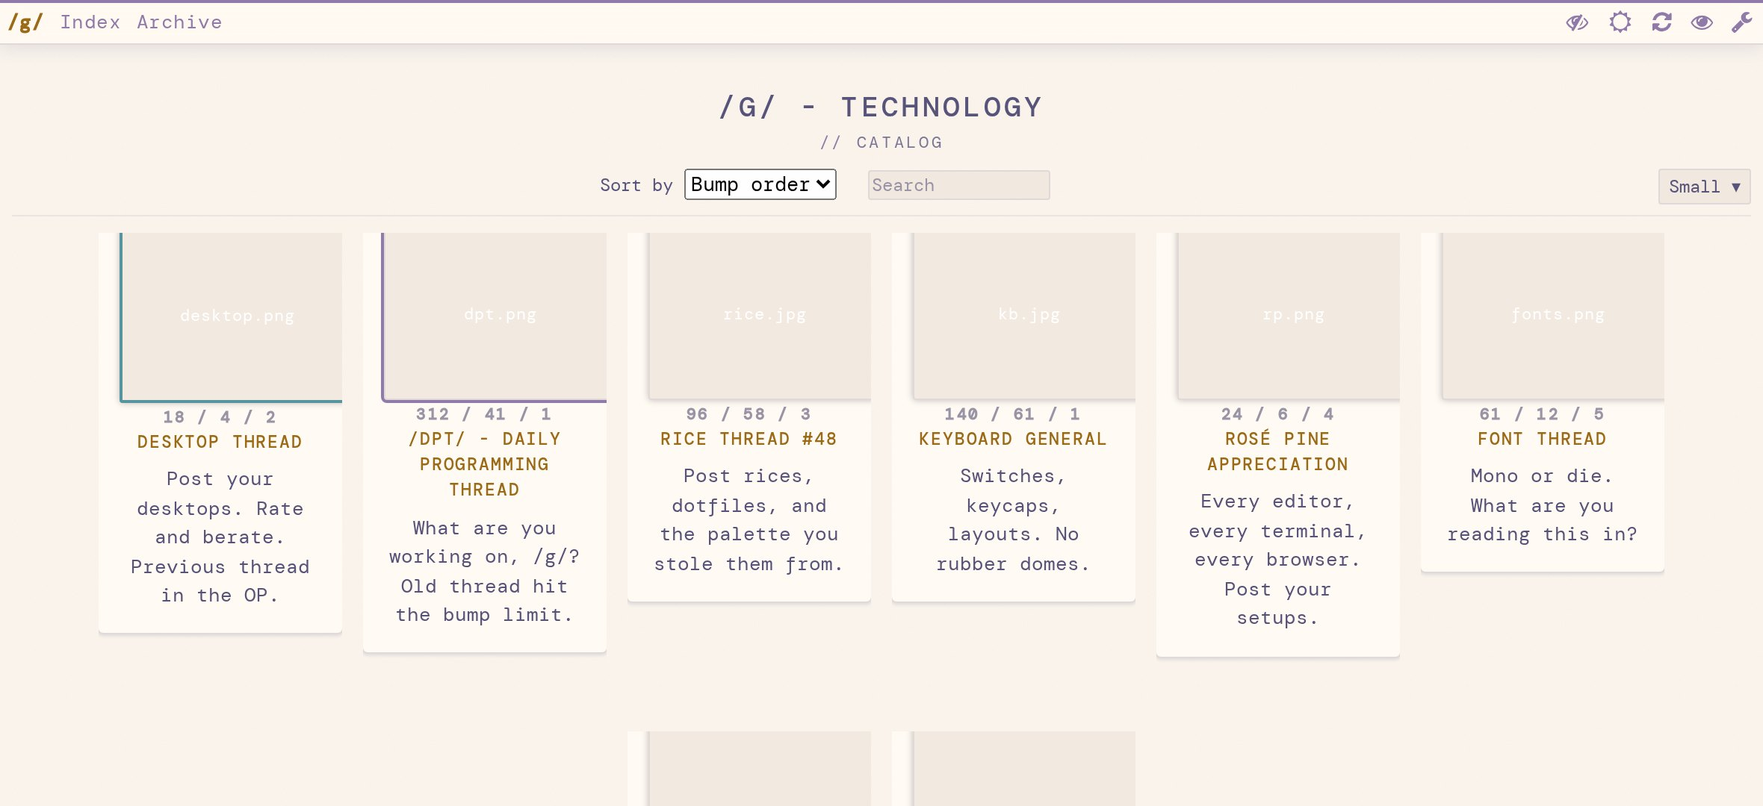
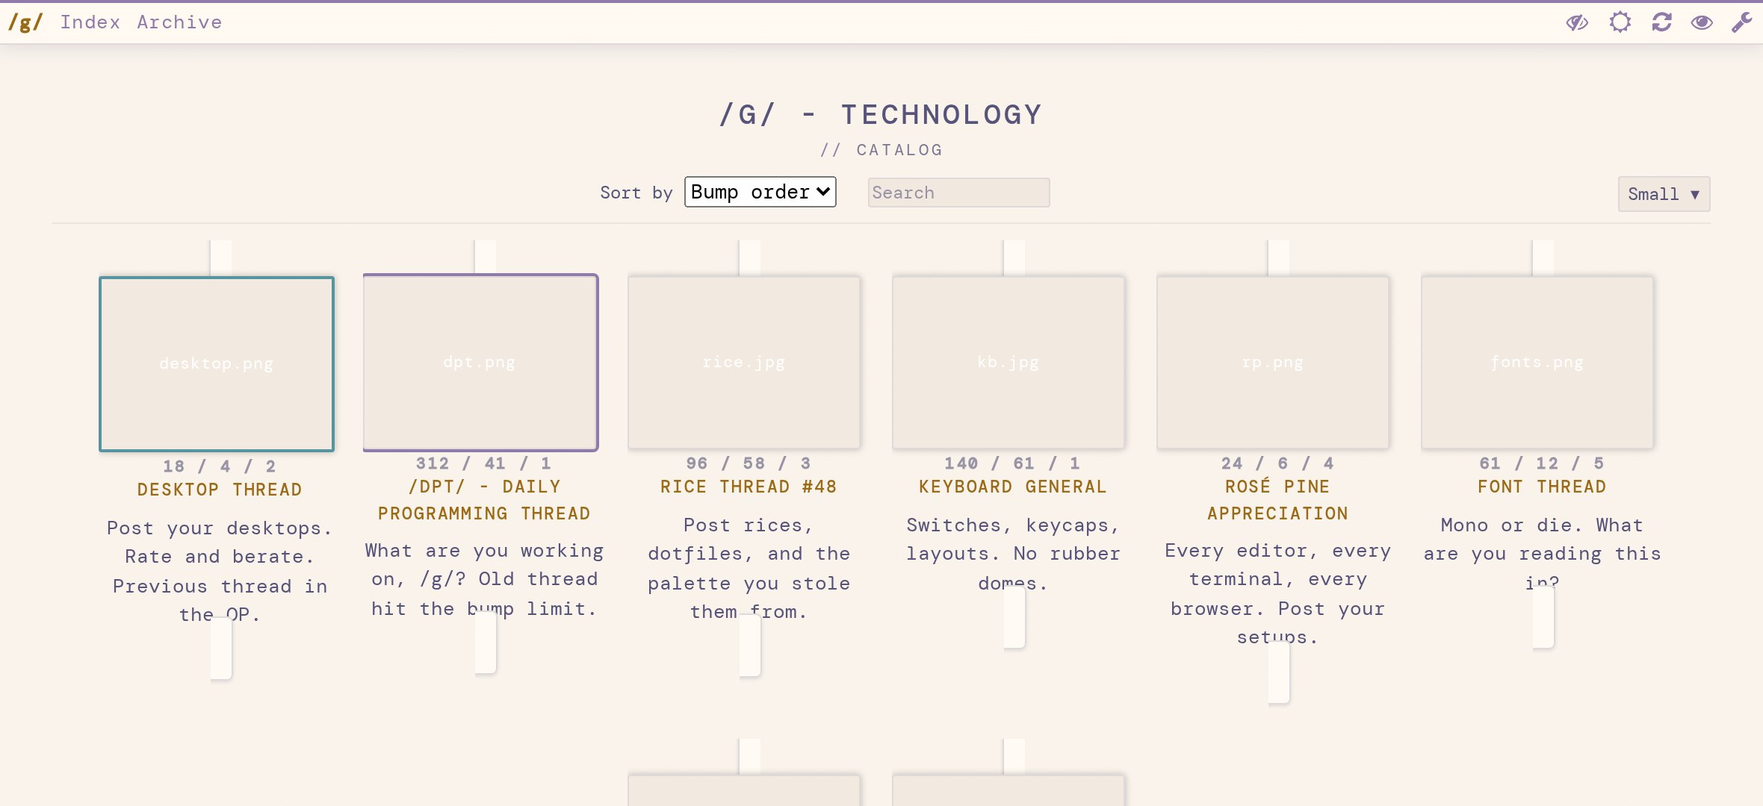
Fix OP card overflow against 4chan's stylesheet and add a page width option
The opening post was drawn by the site as an inline box (div.op and
div.opContainer are display: inline in 4chan's CSS), so the themed card wrapped
only the text while the floated thumbnail hung out below it and pushed the
first reply sideways. The card is now a flow-root box inside a block container,
which contains the float without clipping, in both the thread and the index.

Names, tripcodes, quotelinks and the highlighted-post state were also losing to
the site's rules: its name selectors carry four classes and four elements, and
its quotelink and highlight colours are marked !important. The theme's
selectors now outrank them where specificity is enough and use !important only
where the site does.

A new Page width option (full, wide, narrow) centres the page in a column with
margins either side; wide is the default. The mock board used for the
screenshots now mirrors the site's real layout rules so it reproduces these
bugs, and the docs screenshots and published build are regenerated.

Claude-Session: https://claude.ai/code/session_01XExP12SdTJoGpniFGqLcDd

diff --git a/docs/rose-chan.user.js b/docs/rose-chan.user.js
@@ -491,6 +491,7 @@ Config = (function() {
       'Theme Font': 'dm-mono',
       'Theme Accent': 'iris',
       'Theme Density': 'normal',
+      'Theme Width': 'wide',
       'Square Corners': false,
       'Card OP': true,
       'Blur Effects': true,
@@ -4833,6 +4834,23 @@ a:only-of-type > .remove {\n\
   --rp-pad:         16px 20px;\n\
   --rp-post-gap:    14px;\n\
 }\n\
+/* Page width. The site runs posts edge to edge; the column options centre the\n\
+   page and leave margins either side. Only the horizontal box changes, so the\n\
+   fixed header's body offset (padding-top from 4chan X) is untouched. */\n\
+:root.rp-theme.rp-width-wide body,\n\
+:root.rp-theme.rp-width-narrow body {\n\
+  box-sizing: border-box;\n\
+  margin-left: auto;\n\
+  margin-right: auto;\n\
+  padding-left: clamp(12px, 3vw, 48px);\n\
+  padding-right: clamp(12px, 3vw, 48px);\n\
+}\n\
+:root.rp-theme.rp-width-wide body {\n\
+  max-width: 1440px;\n\
+}\n\
+:root.rp-theme.rp-width-narrow body {\n\
+  max-width: 1080px;\n\
+}\n\
 /* ============================ Page ============================ */\n\
 :root.rp-theme,\n\
 :root.rp-theme body {\n\
@@ -4960,6 +4978,16 @@ a:only-of-type > .remove {\n\
 :root.rp-theme .postContainer {\n\
   margin-bottom: var(--rp-post-gap);\n\
 }\n\
+/* The site draws the opening post as an inline box (div.op and div.opContainer\n\
+   are display: inline), which cannot hold a floated thumbnail: the card would\n\
+   wrap only the text and the image would hang out below it, pushing the first\n\
+   reply sideways. A flow-root box contains the float without clipping. */\n\
+:root.rp-theme .thread > .opContainer {\n\
+  display: block;\n\
+}\n\
+:root.rp-theme .thread > .opContainer > .post.op {\n\
+  display: flow-root;\n\
+}\n\
 :root.rp-theme .post {\n\
   background: var(--rp-surface);\n\
   border: 1px solid var(--rp-hl-med);\n\
@@ -4981,17 +5009,20 @@ a:only-of-type > .remove {\n\
   box-shadow: 0 1px 2px var(--rp-shadow);\n\
   padding: var(--rp-pad);\n\
 }\n\
+/* The site marks these with !important, so this has to as well. */\n\
 :root.rp-theme .post.reply:target,\n\
 :root.rp-theme .post.reply.highlight {\n\
-  background: var(--rp-overlay);\n\
-  border-color: var(--rp-accent);\n\
+  background: var(--rp-overlay) !important;\n\
+  border: 1px solid var(--rp-accent) !important;\n\
   box-shadow: 0 0 0 1px var(--rp-accent);\n\
 }\n\
 /* Post metadata */\n\
 :root.rp-theme .postInfo {\n\
   color: var(--rp-muted);\n\
 }\n\
-:root.rp-theme .postInfo .name {\n\
+/* The site styles names as div.post div.postInfo span.nameBlock span.name;\n\
+   these selectors carry one more class so they win without !important. */\n\
+:root.rp-theme .post .postInfo .nameBlock .name {\n\
   color: var(--rp-foam);\n\
   font-weight: 600;\n\
 }\n\
@@ -4999,7 +5030,7 @@ a:only-of-type > .remove {\n\
   color: var(--rp-heading);\n\
   font-weight: 700;\n\
 }\n\
-:root.rp-theme .postInfo .postertrip {\n\
+:root.rp-theme .post .postInfo .nameBlock .postertrip {\n\
   color: var(--rp-iris);\n\
 }\n\
 :root.rp-theme .postInfo .posteruid,\n\
@@ -5008,7 +5039,7 @@ a:only-of-type > .remove {\n\
   color: var(--rp-muted);\n\
 }\n\
 :root.rp-theme .postInfo .postNum a:hover {\n\
-  color: var(--rp-accent);\n\
+  color: var(--rp-accent) !important;\n\
 }\n\
 :root.rp-theme .postInfo .capcode,\n\
 :root.rp-theme .capcodeAdmin .name,\n\
@@ -5030,14 +5061,16 @@ a:only-of-type > .remove {\n\
 :root.rp-theme blockquote .quote {\n\
   color: var(--rp-quote);\n\
 }\n\
+/* The site colours quotelinks with !important, hence the same here. */\n\
 :root.rp-theme .quotelink,\n\
 :root.rp-theme .backlink {\n\
-  color: var(--rp-accent);\n\
+  color: var(--rp-accent) !important;\n\
+  text-decoration: none;\n\
   border-bottom: 1px solid transparent;\n\
 }\n\
 :root.rp-theme .quotelink:hover,\n\
 :root.rp-theme .backlink:hover {\n\
-  color: var(--rp-love);\n\
+  color: var(--rp-love) !important;\n\
   border-bottom-color: currentColor;\n\
 }\n\
 :root.rp-theme .deadlink,\n\
@@ -5730,7 +5763,7 @@ a:only-of-type > .remove {\n\
   letter-spacing: .08em;\n\
   text-transform: uppercase;\n\
 }\n\
-:root.rp-theme.rp-dossier .postInfo .name {\n\
+:root.rp-theme.rp-dossier .post .postInfo .nameBlock .name {\n\
   font-weight: 500;\n\
 }\n\
 :root.rp-theme.rp-dossier .postInfo .dateTime {\n\
@@ -15545,7 +15578,7 @@ Settings = (function() {
     },
     theme: function(section) {
       var button, fill, input, inputs, items, j, k, len, len1, name, presets, ref, updateDisabled;
-      $.extend(section, {innerHTML: "<fieldset><legend>Presets</legend><p class=\"rp-preview-note description\">One click sets the variant, look and font together. Everything below stays adjustable afterwards.</p><div class=\"rp-presets\"><button type=\"button\" data-preset=\"dossier-dark\">Dossier &middot; Dark</button><button type=\"button\" data-preset=\"dossier-dawn\">Dossier &middot; Dawn</button><button type=\"button\" data-preset=\"classic-dark\">Classic &middot; Dark</button><button type=\"button\" data-preset=\"classic-dawn\">Classic &middot; Dawn</button><button type=\"button\" data-preset=\"off\">Off</button></div><div class=\"rp-preview\"><div class=\"replyContainer quotesYou\"><div class=\"post reply\"><div class=\"postInfo\"><span class=\"nameBlock\"><span class=\"name\">Anonymous</span></span> <span class=\"dateTime\">09/01/26(Tue)18:40:12</span> <span class=\"postNum\">No.1000007</span></div><blockquote class=\"postMessage\">This is a live preview of the current look.<br><span class=\"quote\">&gt;greentext keeps its colour</span><br>A <span class=\"quotelink\">&gt;&gt;1000001</span> quotelink, and a <s>redacted spoiler</s> to hover over.</blockquote></div></div></div></fieldset><fieldset><legend>Theme</legend><div><label>Theme:<select name=\"Theme\"><option value=\"none\">None (use the site&#039;s own theme)</option><option value=\"rose-pine-dawn\">Ros&eacute; Pine Dawn (light)</option><option value=\"rose-pine\">Ros&eacute; Pine (dark)</option></select></label><span class=\"description\">: Replaces the board&#039;s styling as well as 4chan X&#039;s own interface.</span></div><div><label><input type=\"checkbox\" name=\"Auto Theme\"> Follow system light/dark setting</label><span class=\"description\">: Picks Dawn or Dark automatically from your OS preference, overriding the choice above.</span></div><div><label>Look:<select name=\"Theme Style\"><option value=\"dossier\">Dossier Declassified</option><option value=\"classic\">Classic cards</option></select></label><span class=\"description\">: Dossier turns each post into a numbered entry in a case file, with stamps, brackets and redaction bars. Classic is the plain card layout.</span></div><div><label>Font:<select name=\"Theme Font\"><option value=\"dm-mono\">DM Mono (bundled)</option><option value=\"system\">System UI font</option><option value=\"board\">Board default</option></select></label><span class=\"description\">: DM Mono ships inside the script, so nothing is fetched from a font service.</span></div><div><label>Accent:<select name=\"Theme Accent\"><option value=\"iris\">Iris (default)</option><option value=\"foam\">Foam</option><option value=\"rose\">Rose</option><option value=\"pine\">Pine</option><option value=\"gold\">Gold</option><option value=\"love\">Love</option></select></label><span class=\"description\">: Colour used for links, brackets, focus rings and highlights.</span></div><div><label>Density:<select name=\"Theme Density\"><option value=\"compact\">Compact</option><option value=\"normal\">Normal</option><option value=\"roomy\">Roomy</option></select></label><span class=\"description\">: Spacing and padding around posts.</span></div><div><label><input type=\"checkbox\" name=\"Card OP\"> Cards for OPs</label><span class=\"description\">: Give opening posts the same panel treatment as replies. In the dossier look this is also where the case file tab and corner brackets go.</span></div><div><label><input type=\"checkbox\" name=\"Stamps\"> Rubber stamps</label><span class=\"description\">: Stamp your own posts and replies to you, and label pinned, closed and archived threads. Dossier look only.</span></div><div><label><input type=\"checkbox\" name=\"Paper Grain\"> Paper grain</label><span class=\"description\">: A faint film of grain over the page. Dossier look only.</span></div><div><label><input type=\"checkbox\" name=\"Spotlight\"> Spotlight on hover</label><span class=\"description\">: Dim the rest of a thread while the cursor rests on one post.</span></div><div><label><input type=\"checkbox\" name=\"Square Corners\"> Square corners</label><span class=\"description\">: Turn off rounded corners.</span></div><div><label><input type=\"checkbox\" name=\"Blur Effects\"> Background blur</label><span class=\"description\">: Frost the header bar and the settings backdrop. Costs a little performance.</span></div></fieldset><fieldset><legend>Animations</legend><div><label><input type=\"checkbox\" name=\"Animations\"> Enable animations</label><span class=\"description\">: Stamp new posts in, ease menus and dialogs open, wipe redaction bars away on hover, and sweep a scanline down the page when the variant flips.</span></div><div><label>Speed:<select name=\"Animation Speed\"><option value=\"fast\">Fast</option><option value=\"normal\">Normal</option><option value=\"slow\">Slow</option></select></label></div><div><label><input type=\"checkbox\" name=\"Hover Effects\"> Hover effects</label><span class=\"description\">: Lift posts, thumbnails and catalog cards slightly under the cursor.</span></div><div><label><input type=\"checkbox\" name=\"Reveal on Load\"> Reveal on load</label><span class=\"description\">: The first screen of posts or catalog cards slides in one after another when a page opens.</span></div><div><label><input type=\"checkbox\" name=\"Smooth Scrolling\"> Smooth scrolling</label></div><div><label><input type=\"checkbox\" name=\"Force Motion\"> Animate even with &quot;reduce motion&quot; set</label><span class=\"description\">: By default animations are shortened when your system asks for reduced motion.</span></div></fieldset><fieldset><legend>Navigation and tools</legend><div><label><input type=\"checkbox\" name=\"Dossier Header\"> Case file header</label><span class=\"description\">: A panel at the top of every thread with its number, when it was opened, entries, files, posters and status.</span></div><div><label><input type=\"checkbox\" name=\"Scroll to Top\"> Back-to-top button</label><span class=\"description\">: Show a button in the corner once you have scrolled down.</span></div><div><label><input type=\"checkbox\" name=\"Reading Progress\"> Reading progress bar</label><span class=\"description\">: Thin bar along the edge of the page showing how far you have scrolled.</span></div><div><label><input type=\"checkbox\" name=\"Redaction Shortcut\"> Redaction button in the header</label><span class=\"description rp-keybind-note\">: One click inks over every post, name, file and thumbnail on the page until clicked again. The keybind (<code class=\"rp-redact-key\"></code>) works either way and can be changed in the Keybinds tab.</span></div></fieldset>"});
+      $.extend(section, {innerHTML: "<fieldset><legend>Presets</legend><p class=\"rp-preview-note description\">One click sets the variant, look and font together. Everything below stays adjustable afterwards.</p><div class=\"rp-presets\"><button type=\"button\" data-preset=\"dossier-dark\">Dossier &middot; Dark</button><button type=\"button\" data-preset=\"dossier-dawn\">Dossier &middot; Dawn</button><button type=\"button\" data-preset=\"classic-dark\">Classic &middot; Dark</button><button type=\"button\" data-preset=\"classic-dawn\">Classic &middot; Dawn</button><button type=\"button\" data-preset=\"off\">Off</button></div><div class=\"rp-preview\"><div class=\"replyContainer quotesYou\"><div class=\"post reply\"><div class=\"postInfo\"><span class=\"nameBlock\"><span class=\"name\">Anonymous</span></span> <span class=\"dateTime\">09/01/26(Tue)18:40:12</span> <span class=\"postNum\">No.1000007</span></div><blockquote class=\"postMessage\">This is a live preview of the current look.<br><span class=\"quote\">&gt;greentext keeps its colour</span><br>A <span class=\"quotelink\">&gt;&gt;1000001</span> quotelink, and a <s>redacted spoiler</s> to hover over.</blockquote></div></div></div></fieldset><fieldset><legend>Theme</legend><div><label>Theme:<select name=\"Theme\"><option value=\"none\">None (use the site&#039;s own theme)</option><option value=\"rose-pine-dawn\">Ros&eacute; Pine Dawn (light)</option><option value=\"rose-pine\">Ros&eacute; Pine (dark)</option></select></label><span class=\"description\">: Replaces the board&#039;s styling as well as 4chan X&#039;s own interface.</span></div><div><label><input type=\"checkbox\" name=\"Auto Theme\"> Follow system light/dark setting</label><span class=\"description\">: Picks Dawn or Dark automatically from your OS preference, overriding the choice above.</span></div><div><label>Look:<select name=\"Theme Style\"><option value=\"dossier\">Dossier Declassified</option><option value=\"classic\">Classic cards</option></select></label><span class=\"description\">: Dossier turns each post into a numbered entry in a case file, with stamps, brackets and redaction bars. Classic is the plain card layout.</span></div><div><label>Font:<select name=\"Theme Font\"><option value=\"dm-mono\">DM Mono (bundled)</option><option value=\"system\">System UI font</option><option value=\"board\">Board default</option></select></label><span class=\"description\">: DM Mono ships inside the script, so nothing is fetched from a font service.</span></div><div><label>Accent:<select name=\"Theme Accent\"><option value=\"iris\">Iris (default)</option><option value=\"foam\">Foam</option><option value=\"rose\">Rose</option><option value=\"pine\">Pine</option><option value=\"gold\">Gold</option><option value=\"love\">Love</option></select></label><span class=\"description\">: Colour used for links, brackets, focus rings and highlights.</span></div><div><label>Density:<select name=\"Theme Density\"><option value=\"compact\">Compact</option><option value=\"normal\">Normal</option><option value=\"roomy\">Roomy</option></select></label><span class=\"description\">: Spacing and padding around posts.</span></div><div><label>Page width:<select name=\"Theme Width\"><option value=\"full\">Full width</option><option value=\"wide\">Wide column</option><option value=\"narrow\">Narrow column</option></select></label><span class=\"description\">: Full runs edge to edge like the site does. The columns centre the page with margins either side.</span></div><div><label><input type=\"checkbox\" name=\"Card OP\"> Cards for OPs</label><span class=\"description\">: Give opening posts the same panel treatment as replies. In the dossier look this is also where the case file tab and corner brackets go.</span></div><div><label><input type=\"checkbox\" name=\"Stamps\"> Rubber stamps</label><span class=\"description\">: Stamp your own posts and replies to you, and label pinned, closed and archived threads. Dossier look only.</span></div><div><label><input type=\"checkbox\" name=\"Paper Grain\"> Paper grain</label><span class=\"description\">: A faint film of grain over the page. Dossier look only.</span></div><div><label><input type=\"checkbox\" name=\"Spotlight\"> Spotlight on hover</label><span class=\"description\">: Dim the rest of a thread while the cursor rests on one post.</span></div><div><label><input type=\"checkbox\" name=\"Square Corners\"> Square corners</label><span class=\"description\">: Turn off rounded corners.</span></div><div><label><input type=\"checkbox\" name=\"Blur Effects\"> Background blur</label><span class=\"description\">: Frost the header bar and the settings backdrop. Costs a little performance.</span></div></fieldset><fieldset><legend>Animations</legend><div><label><input type=\"checkbox\" name=\"Animations\"> Enable animations</label><span class=\"description\">: Stamp new posts in, ease menus and dialogs open, wipe redaction bars away on hover, and sweep a scanline down the page when the variant flips.</span></div><div><label>Speed:<select name=\"Animation Speed\"><option value=\"fast\">Fast</option><option value=\"normal\">Normal</option><option value=\"slow\">Slow</option></select></label></div><div><label><input type=\"checkbox\" name=\"Hover Effects\"> Hover effects</label><span class=\"description\">: Lift posts, thumbnails and catalog cards slightly under the cursor.</span></div><div><label><input type=\"checkbox\" name=\"Reveal on Load\"> Reveal on load</label><span class=\"description\">: The first screen of posts or catalog cards slides in one after another when a page opens.</span></div><div><label><input type=\"checkbox\" name=\"Smooth Scrolling\"> Smooth scrolling</label></div><div><label><input type=\"checkbox\" name=\"Force Motion\"> Animate even with &quot;reduce motion&quot; set</label><span class=\"description\">: By default animations are shortened when your system asks for reduced motion.</span></div></fieldset><fieldset><legend>Navigation and tools</legend><div><label><input type=\"checkbox\" name=\"Dossier Header\"> Case file header</label><span class=\"description\">: A panel at the top of every thread with its number, when it was opened, entries, files, posters and status.</span></div><div><label><input type=\"checkbox\" name=\"Scroll to Top\"> Back-to-top button</label><span class=\"description\">: Show a button in the corner once you have scrolled down.</span></div><div><label><input type=\"checkbox\" name=\"Reading Progress\"> Reading progress bar</label><span class=\"description\">: Thin bar along the edge of the page showing how far you have scrolled.</span></div><div><label><input type=\"checkbox\" name=\"Redaction Shortcut\"> Redaction button in the header</label><span class=\"description rp-keybind-note\">: One click inks over every post, name, file and thumbnail on the page until clicked again. The keybind (<code class=\"rp-redact-key\"></code>) works either way and can be changed in the Keybinds tab.</span></div></fieldset>"});
       inputs = $.dict();
       ref = $$('[name]', section);
       for (j = 0, len = ref.length; j < len; j++) {
@@ -15937,6 +15970,7 @@ Theme = (function() {
     accents: ['iris', 'foam', 'rose', 'pine', 'gold', 'love'],
     nativeStyles: ['yotsuba', 'yotsuba-b', 'futaba', 'burichan', 'photon', 'tomorrow', 'spooky'],
     densities: ['compact', 'normal', 'roomy'],
+    widths: ['full', 'wide', 'narrow'],
     speeds: ['fast', 'normal', 'slow'],
     dossierOnly: ['Stamps', 'Paper Grain'],
     init: function() {
@@ -16037,7 +16071,7 @@ Theme = (function() {
       return typeof Main.updateNativeStyle === "function" ? Main.updateNativeStyle() : void 0;
     },
     applyModifiers: function(enabled) {
-      var accent, density, font, style;
+      var accent, density, font, style, width;
       $.rmClass.apply($, [doc].concat(slice.call((function() {
         var j, len, ref, results;
         ref = Theme.styles;
@@ -16068,6 +16102,16 @@ Theme = (function() {
         }
         return results;
       })())));
+      $.rmClass.apply($, [doc].concat(slice.call((function() {
+        var j, len, ref, results;
+        ref = Theme.widths;
+        results = [];
+        for (j = 0, len = ref.length; j < len; j++) {
+          width = ref[j];
+          results.push("rp-width-" + width);
+        }
+        return results;
+      })())));
       $.rmClass(doc, 'rp-compact', 'rp-roomy', 'rp-square', 'rp-card-op', 'rp-blur', 'rp-grain', 'rp-stamps', 'rp-spotlight');
       if (!enabled) {
         return;
@@ -16081,6 +16125,10 @@ Theme = (function() {
       density = Conf['Theme Density'];
       if (density === 'compact' || density === 'roomy') {
         $.addClass(doc, "rp-" + density);
+      }
+      width = Conf['Theme Width'];
+      if (width === 'wide' || width === 'narrow') {
+        $.addClass(doc, "rp-width-" + width);
       }
       Theme.setClass('rp-square', Conf['Square Corners']);
       Theme.setClass('rp-card-op', Conf['Card OP']);

diff --git a/src/css/rose-pine.css b/src/css/rose-pine.css
@@ -113,6 +113,24 @@
   --rp-post-gap:    14px;
 }
 
+/* Page width. The site runs posts edge to edge; the column options centre the
+   page and leave margins either side. Only the horizontal box changes, so the
+   fixed header's body offset (padding-top from 4chan X) is untouched. */
+:root.rp-theme.rp-width-wide body,
+:root.rp-theme.rp-width-narrow body {
+  box-sizing: border-box;
+  margin-left: auto;
+  margin-right: auto;
+  padding-left: clamp(12px, 3vw, 48px);
+  padding-right: clamp(12px, 3vw, 48px);
+}
+:root.rp-theme.rp-width-wide body {
+  max-width: 1440px;
+}
+:root.rp-theme.rp-width-narrow body {
+  max-width: 1080px;
+}
+
 /* ============================ Page ============================ */
 
 :root.rp-theme,
@@ -251,6 +269,16 @@
   margin-bottom: var(--rp-post-gap);
 }
 
+/* The site draws the opening post as an inline box (div.op and div.opContainer
+   are display: inline), which cannot hold a floated thumbnail: the card would
+   wrap only the text and the image would hang out below it, pushing the first
+   reply sideways. A flow-root box contains the float without clipping. */
+:root.rp-theme .thread > .opContainer {
+  display: block;
+}
+:root.rp-theme .thread > .opContainer > .post.op {
+  display: flow-root;
+}
 :root.rp-theme .post {
   background: var(--rp-surface);
   border: 1px solid var(--rp-hl-med);
@@ -272,10 +300,11 @@
   box-shadow: 0 1px 2px var(--rp-shadow);
   padding: var(--rp-pad);
 }
+/* The site marks these with !important, so this has to as well. */
 :root.rp-theme .post.reply:target,
 :root.rp-theme .post.reply.highlight {
-  background: var(--rp-overlay);
-  border-color: var(--rp-accent);
+  background: var(--rp-overlay) !important;
+  border: 1px solid var(--rp-accent) !important;
   box-shadow: 0 0 0 1px var(--rp-accent);
 }
 
@@ -283,7 +312,9 @@
 :root.rp-theme .postInfo {
   color: var(--rp-muted);
 }
-:root.rp-theme .postInfo .name {
+/* The site styles names as div.post div.postInfo span.nameBlock span.name;
+   these selectors carry one more class so they win without !important. */
+:root.rp-theme .post .postInfo .nameBlock .name {
   color: var(--rp-foam);
   font-weight: 600;
 }
@@ -291,7 +322,7 @@
   color: var(--rp-heading);
   font-weight: 700;
 }
-:root.rp-theme .postInfo .postertrip {
+:root.rp-theme .post .postInfo .nameBlock .postertrip {
   color: var(--rp-iris);
 }
 :root.rp-theme .postInfo .posteruid,
@@ -300,7 +331,7 @@
   color: var(--rp-muted);
 }
 :root.rp-theme .postInfo .postNum a:hover {
-  color: var(--rp-accent);
+  color: var(--rp-accent) !important;
 }
 :root.rp-theme .postInfo .capcode,
 :root.rp-theme .capcodeAdmin .name,
@@ -323,14 +354,16 @@
 :root.rp-theme blockquote .quote {
   color: var(--rp-quote);
 }
+/* The site colours quotelinks with !important, hence the same here. */
 :root.rp-theme .quotelink,
 :root.rp-theme .backlink {
-  color: var(--rp-accent);
+  color: var(--rp-accent) !important;
+  text-decoration: none;
   border-bottom: 1px solid transparent;
 }
 :root.rp-theme .quotelink:hover,
 :root.rp-theme .backlink:hover {
-  color: var(--rp-love);
+  color: var(--rp-love) !important;
   border-bottom-color: currentColor;
 }
 :root.rp-theme .deadlink,
@@ -1053,7 +1086,7 @@
   letter-spacing: .08em;
   text-transform: uppercase;
 }
-:root.rp-theme.rp-dossier .postInfo .name {
+:root.rp-theme.rp-dossier .post .postInfo .nameBlock .name {
   font-weight: 500;
 }
 :root.rp-theme.rp-dossier .postInfo .dateTime {

diff --git a/src/General/Settings/Theme.html b/src/General/Settings/Theme.html
@@ -82,6 +82,17 @@
     <span class="description">: Spacing and padding around posts.</span>
   </div>
   <div>
+    <label>
+      Page width:
+      <select name="Theme Width">
+        <option value="full">Full width</option>
+        <option value="wide">Wide column</option>
+        <option value="narrow">Narrow column</option>
+      </select>
+    </label>
+    <span class="description">: Full runs edge to edge like the site does. The columns centre the page with margins either side.</span>
+  </div>
+  <div>
     <label><input type="checkbox" name="Card OP"> Cards for OPs</label>
     <span class="description">: Give opening posts the same panel treatment as replies. In the dossier look this is also where the case file tab and corner brackets go.</span>
   </div>
